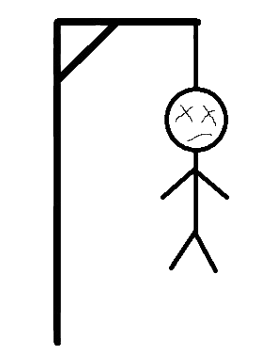
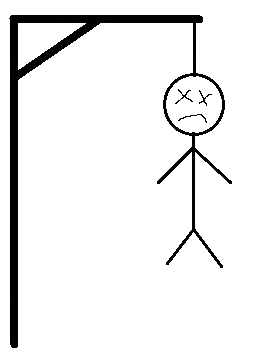
Hangman pics added and fixed

Changed region(s): [[0.0286, 0.031, 0.8286, 0.9915]]

diff --git a/src/components/Hangman.tsx b/src/components/Hangman.tsx
@@ -1,9 +1,27 @@
+import hangman1 from "../assets/hangman1.png"
+import hangman2 from "../assets/hangman2.png"
+import hangman3 from "../assets/hangman3.png"
+import hangman4 from "../assets/hangman4.png"
+import hangman5 from "../assets/hangman5.png"
+import hangman6 from "../assets/hangman6.png"
+import hangman7 from "../assets/hangman7.png"
 import hangman8 from "../assets/hangman8.png"
 import Healthbar from "./Healthbar.tsx"
 
 type HangmanProps = {
     wrongGuessesCount:number
 }
+
+const hangmanImages = [
+    hangman1,
+    hangman2,
+    hangman3,
+    hangman4,
+    hangman5,
+    hangman6,
+    hangman7,
+    hangman8,
+]
 
 export default function Hangman({wrongGuessesCount}:HangmanProps){
     return(
@@ -12,7 +30,7 @@ export default function Hangman({wrongGuessesCount}:HangmanProps){
                 wrongGuessesCount={wrongGuessesCount}
             />
             <div className="picture-container">
-                <img src={hangman8}/>
+                <img src={hangmanImages[wrongGuessesCount]}/>
             </div>
         </main>
     )
